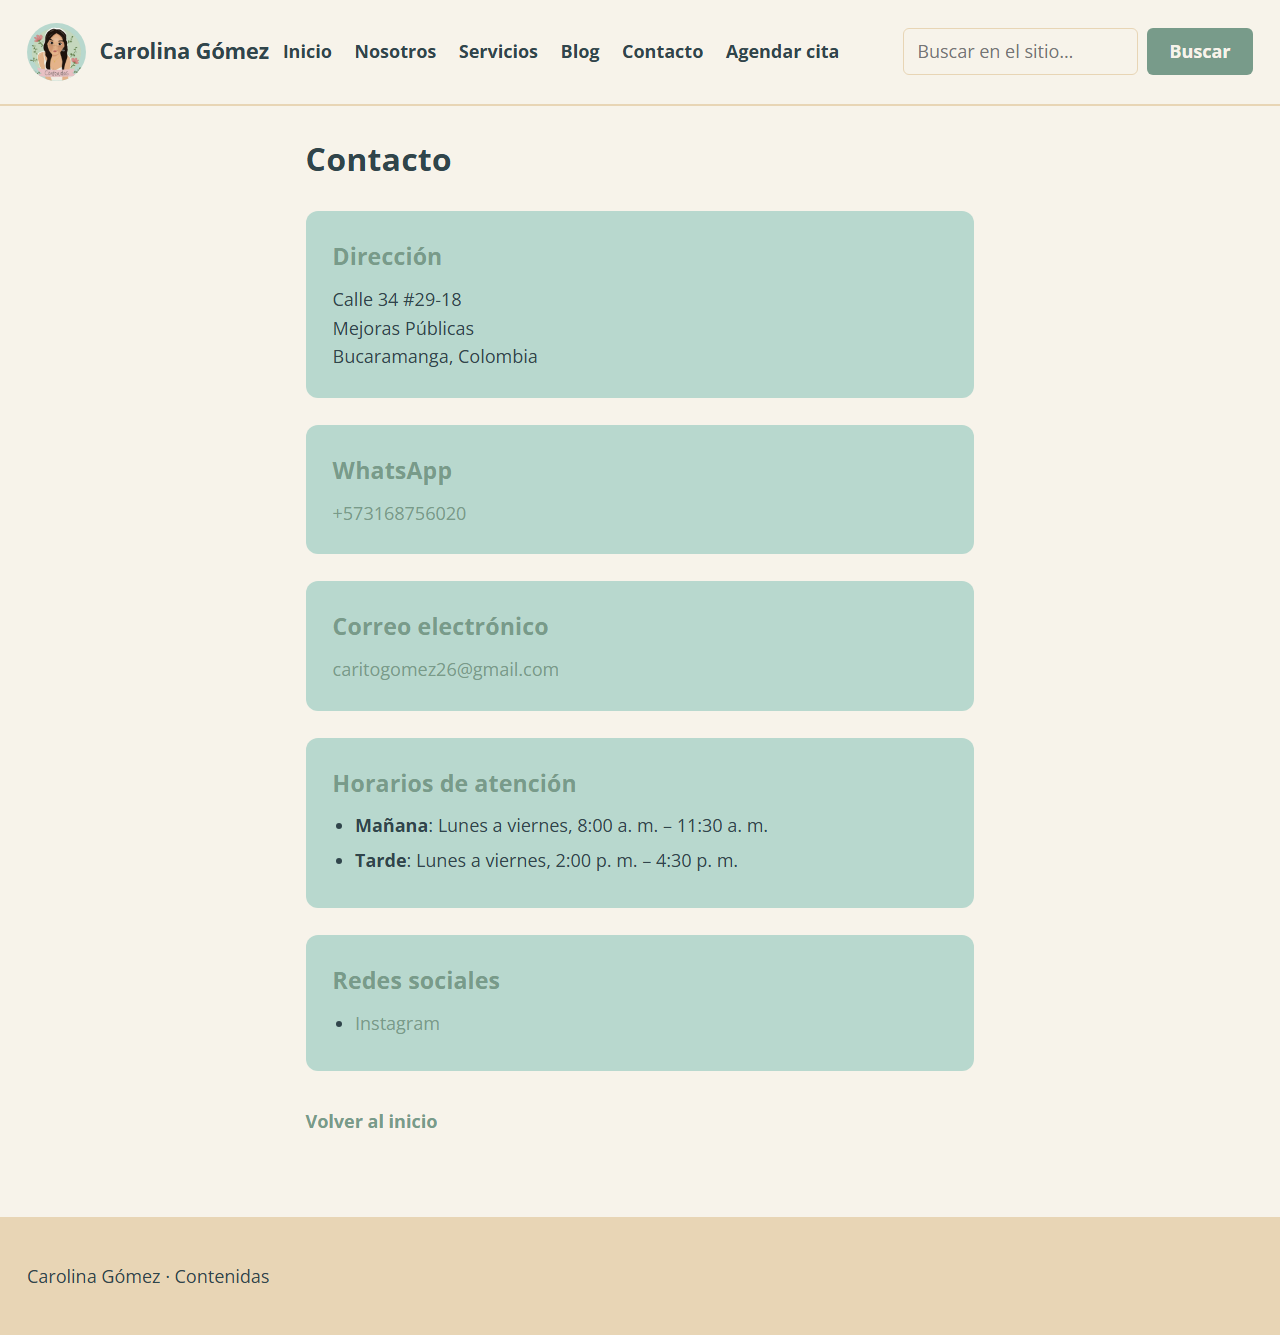
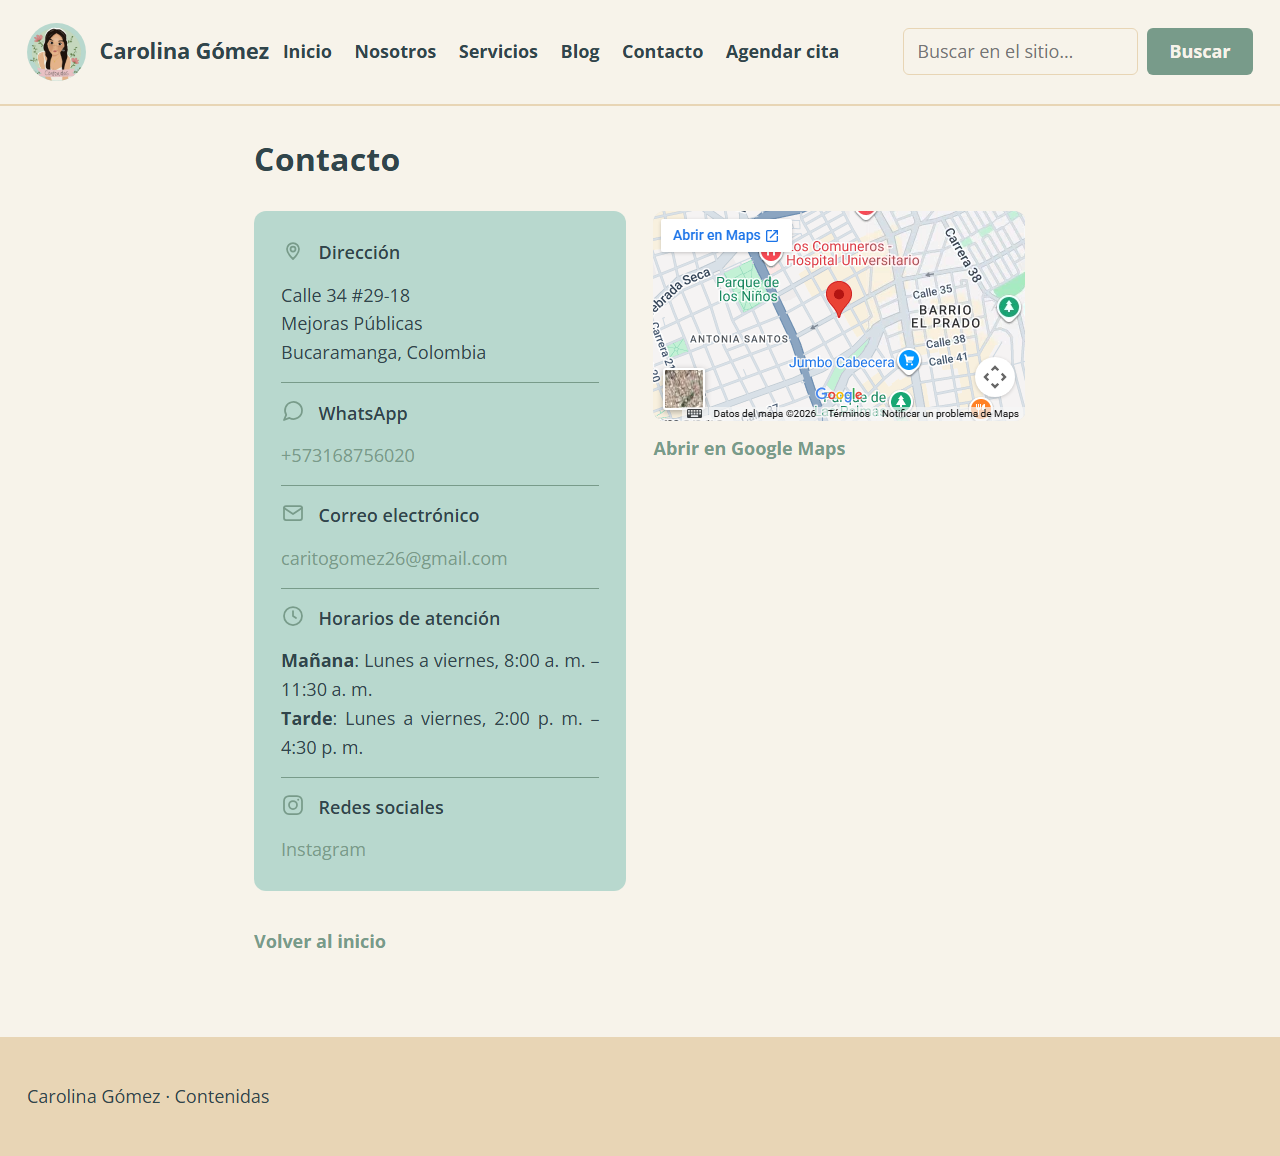
docs(hu-015): evidencia QA de la ampliacion, fix flex-wrap 375px y memoria

Changed region(s): [[0.0, 0.0, 1.0, 0.8408], [0.0, 0.872, 1.0, 0.9654]]

diff --git a/static/css/main.css b/static/css/main.css
@@ -404,6 +404,7 @@ a:focus {
 
 .contact__row {
     display: flex;
+    flex-wrap: wrap;
     align-items: flex-start;
     gap: 0.75rem;
     margin: 0;
@@ -432,7 +433,8 @@ a:focus {
 }
 
 .contact__value {
-    flex: 1 1 auto;
+    flex: 1 1 12rem;
+    min-width: 0;
     text-align: justify;
     hyphens: none;
 }

diff --git a/docs/evidencias/hu-015/qa-hu-015.md b/docs/evidencias/hu-015/qa-hu-015.md
@@ -1,10 +1,12 @@
 # Evidencia QA — HU-015 (Spec 015 · Consultar información de contacto)
 
 **HU:** HU-015
-**Rama:** `feature/hu-015`
-**Commits:** `04640c7` (spec enmendada + plan + task), `942cf77` (contenido + espejo),
+**Rama (v1):** `feature/hu-015` — **Rama (ampliación 2026-10-12):** `feature/hu-015-diseno`
+**Commits (v1):** `04640c7` (spec enmendada + plan + task), `942cf77` (contenido + espejo),
 `7c14cfc` (servicio), `1f60bda` (web + plantilla + placeholders), `6eb32eb` (CSS),
 `9670a9c` (tests), `1dd0498` (esta evidencia + MEMORY)
+**Commits (ampliación):** `2bd6f53` (spec RF-7 + plan + task), `923f9b6` (`MAP_*` +
+`ContactMap` + TC-017/018), `33bee8f` (cajón + iconos + mapa + TC-009/012/015/019)
 **Fecha:** 2026-10-12
 
 ## Resumen
@@ -87,7 +89,7 @@ medidas con `Runtime.evaluate` antes de capturar; emulación fijada por sesión.
 - `POST /contacto` → 405; `GET /contacto/noexiste` → 404.
 - Servidor de revisión en marcha: **http://127.0.0.1:5000/contacto**
 
-## Veredicto
+## Veredicto (v1)
 
 **PASS** — 16/16 TC en verde, suite 179/179, regresión intacta y evidencia visual verificada.
 
@@ -96,3 +98,84 @@ medidas con `Runtime.evaluate` antes de capturar; emulación fijada por sesión.
 - [x] Evidencia visual PASS (1280 y 375, sin desbordes).
 - [x] Demo manual realizada.
 - [x] **Aceptación de la HU por la usuaria**: 2026-10-12.
+
+---
+
+## Ampliación 2026-10-12 — cajón con iconos + mapa (RF-7)
+
+**Rama:** `feature/hu-015-diseno` (spec 015 enmendada con RF-7 + literales `MAP_*` + caso
+límite «Mapa no disponible»; plan/task de ampliación aprobados por la usuaria).
+
+| Verificación | Comando | Resultado |
+|---|---|---|
+| Suite automatizada | `python -m pytest -q` | **182 PASS / 0 FAIL** |
+| Tests de la HU | `python -m pytest tests/test_contact_content.py tests/test_contact_service.py tests/test_contact_routes.py tests/test_hu_015.py -v` | **19 PASS / 0 FAIL** |
+| Regresión resto de HUs | mismos 163 tests previos dentro de la suite | **163 PASS** |
+| Servidor de desarrollo | `GET http://127.0.0.1:5000/contacto` | **200** con cajón de 5 filas + mapa |
+| Evidencia visual | `docs/evidencias/hu-015/*.png` (regeneradas) | **2 archivos, PASS** |
+
+### Casos de prueba de la ampliación
+
+| Caso | Archivo | Resultado |
+|---|---|---|
+| TC-015-017 literales `MAP_*` = espejo; embed `output=embed` y link con la consulta URL-encoded; «Abrir en Google Maps» y título | `test_contact_content.py` | PASS |
+| TC-015-018 RF-7 servicio: `map` completo sin fallback; CL-5 `MAP_QUERY` vacío → default y `fallback_active=True`; ambos vacíos → `map is None`; CL-1 sin dirección → `map is None` | `test_contact_service.py` | PASS |
+| TC-015-019 iframe `www.google.com/maps` con `title` + `loading="lazy"` y enlace de respaldo `target="_blank" rel="noopener"`; dirección visible fuera del iframe | `test_contact_routes.py` | PASS |
+| TC-015-009 (adaptado) h1 + `.contact__panel` con ≥5 `<li class="contact__row">` | `test_contact_routes.py` | PASS |
+| TC-015-012 (adaptado) 5 filas con `<svg aria-hidden="true">`, etiqueta y valor; sin mezcla de datos entre canales | `test_contact_routes.py` | PASS |
+| TC-015-015 (adaptado) RNF: viewport, `@media`, `.contact` 65ch, `.contact__value` justify/none, grid 2 columnas `@media (min-width: 900px)`, paleta ⊆ 6 hex | `test_hu_015.py` | PASS |
+
+TC-015-001…008/010/011/013/014/016 de v1: **sin cambios y en verde** (marcado de
+enlaces idéntico a v1, D5). Ninguna aserción relajada.
+
+### Cobertura RF-7 y casos límite
+
+| Elemento | Verificación | Resultado |
+|---|---|---|
+| RF-7 mapa con dirección | iframe embed de Google Maps + enlace de respaldo en `/contacto` (TC-018/019 + CDP) | PASS |
+| CL-1 dirección no aplicable | `map is None` con dirección y default vacíos (TC-018) | PASS |
+| CL-5 consulta de mapa vacía | default aplicado (`fallback_active=True`); ambos vacíos → bloque omitido (TC-018) | PASS |
+| «Mapa no disponible» (spec) | dirección escrita permanece visible fuera del iframe (TC-019 + CDP) | PASS |
+| RNF-1 legible escritorio/móvil | grid 2 columnas ≥900 px, apilado <900 px, sin desbordes (TC-015 + CDP) | PASS |
+
+### Evidencia visual (capturas regeneradas)
+
+| Archivo | Dimensiones | Contenido comprobado | Resultado |
+|---|---|---|---|
+| `escritorio-1280.png` | 1280×1156 | h1 «Contacto»; cajón salvia con 5 filas (icono SVG + etiqueta + valor): Dirección, WhatsApp, Correo electrónico, Horarios de atención, Redes sociales; mapa de Google a la derecha (grid 2 columnas); enlace «Abrir en Google Maps»; «Volver al inicio»; sin formularios | PASS |
+| `movil-375.png` | 375×1574 | filas apiladas (valor en línea propia cuando no cabe), mapa debajo, **sin desbordes** (`scrollWidth` = `clientWidth` = 375) | PASS |
+
+**Verificación CDP en vivo** (`Emulation.setDeviceMetricsOverride` +
+`Runtime.evaluate`, puerto 9444, Chrome headless):
+
+| Viewport | Resultado |
+|---|---|
+| 1280 | `contactDisplay=grid`; 5 filas con 5 iconos `aria-hidden`; labels Dirección/WhatsApp/Correo electrónico/Horarios de atención/Redes sociales; iframe `google.com/maps…output=embed` con title y `loading=lazy`; enlace «Abrir en Google Maps» `rel=noopener`; `wa.me/573168756020`; `mailto:caritogomez26@gmail.com`; Instagram `rel=noopener`; `justify/none` en `.contact__value`; form/input en `<main>` = 0; `scrollWidth` = `clientWidth` = 1265 (sin desborde) |
+| 375 | `contactDisplay=block` (sin grid); mismo contenido; `scrollWidth` = `clientWidth` = 375 (sin desborde), `scrollHeight` = 1574; captura completa |
+
+**Corrección durante la ampliación:** la primera pasada a 375 px desbordaba
+(`scrollWidth` 512) porque `.contact__label` (10,5 rem) empujaba el valor con tokens
+largos (`caritogomez26@gmail.com`); se añadió `flex-wrap: wrap` a `.contact__row` y
+`flex: 1 1 12rem; min-width: 0` a `.contact__value`, y la verificación CDP quedó en
+`scrollWidth` = 375.
+
+**Método**: DevTools Protocol (no `--window-size`, regla de AGENTS.md); alturas
+medidas con `Runtime.evaluate` antes de capturar; emulación fijada por sesión.
+
+### Demo manual (ampliación)
+
+- `GET /contacto` → 200; cajón con iconos + mapa de Google y «Abrir en Google Maps».
+- Clic en WhatsApp/correo/Instagram → mismos comportamientos de v1.
+- Mapa visible a 1280 px (columna derecha) y debajo del cajón a 375 px.
+- Servidor de revisión en marcha: **http://127.0.0.1:5000/contacto**
+
+### Veredicto de la ampliación
+
+**PASS** — 19/19 TC de HU-015 en verde, suite **182/182**, regresión intacta y
+evidencia visual regenerada sin desbordes.
+
+- [x] Tests automatizados PASS (182/182).
+- [x] Regresión revisada (163 previos intactos).
+- [x] Evidencia visual PASS (1280 y 375, sin desbordes; capturas regeneradas).
+- [x] Demo manual realizada.
+- [ ] **Aceptación de la ampliación por la usuaria** (pendiente, T17).

diff --git a/MEMORY.md b/MEMORY.md
@@ -153,12 +153,28 @@ aporte.
   `content/contact_content.py` + `services/contact_service.py` (resolución
   vivo→default→omisión, `fallback_active`; horarios con
   `DEFAULT_OFFICE_HOURS`), blueprint `contact`, `PLACEHOLDER_SECTIONS` =
-  `["/articulos"]`, CSS `.contact-*`. 16 tests nuevos (TC-015-001…016); suite
-  **179 PASS / 0 FAIL**. Veredicto **PASS** en
-  `docs/evidencias/hu-015/qa-hu-015.md` (capturas CDP 1280×1335 y 375×1552, sin
-  desbordes). Commits: `04640c7` docs, `942cf77` contenido+espejo, `7c14cfc`
-  servicio, `1f60bda` web+plantilla, `6eb32eb` CSS, `9670a9c` tests,
-  evidencia+MEMORY en el commit de cierre.
+   `["/articulos"]`, CSS `.contact-*`. 16 tests nuevos (TC-015-001…016); suite
+   **179 PASS / 0 FAIL**. Veredicto **PASS** en
+   `docs/evidencias/hu-015/qa-hu-015.md` (capturas CDP 1280×1335 y 375×1552, sin
+   desbordes). Commits: `04640c7` docs, `942cf77` contenido+espejo, `7c14cfc`
+   servicio, `1f60bda` web+plantilla, `6eb32eb` CSS, `9670a9c` tests,
+   evidencia+MEMORY en el commit de cierre.
+- **HU-015 ampliación (cajón + iconos + mapa) PASS, pendiente de aceptación**
+  (2026-10-12, rama `feature/hu-015-diseno`): spec 015 enmendada con **RF-7**
+  (mapa condicionado a dirección) + literales `MAP_QUERY`/`MAP_EMBED_URL`/
+  `MAP_LINK_URL`/`MAP_LINK_LABEL`/`MAP_FRAME_TITLE` (iframe de Google Maps sin
+  API key + enlace «Abrir en Google Maps»). Plantilla refactorizada: un **cajón
+  `.contact__panel`** con 5 `<li class="contact__row">` (SVG inline `aria-hidden`
+  + etiqueta + valor; marcado de enlaces idéntico a v1) y bloque
+  `.contact__map`; CSS con **grid 2 columnas ≥900 px** (cajón ‖ mapa) y
+  apilado <900 px. Servicio con `ContactMap` + `ContactView.map` (vivo→
+  default→omisión, CL-1/CL-5). 3 TC adaptados (009/012/015) + 3 nuevos
+  (017/018/019); suite **182 PASS / 0 FAIL**; capturas regeneradas
+  (1280×1156 / 375×1574). **Lección**: a 375 px `.contact__label` (10,5 rem)
+  desbordaba el valor con tokens largos (email) → `flex-wrap: wrap` en
+  `.contact__row` + `min-width: 0`. Commits: `2bd6f53` docs, `923f9b6`
+  contenido+servicio, `33bee8f` plantilla+CSS+tests, evidencia+fix en el
+  cierre. **Solo falta T17 (aceptación de la usuaria)**.
 
 ## Decisiones (y por qué)
 - **Despliegue en Render (2026-10-12)**: `render.yaml` (Blueprint, Python 3.12,
@@ -308,7 +324,8 @@ aporte.
 - **HU-008 + enmienda de estado CERRADAS** (2026-10-11); ambas mergeadas a
   `main` (fast-forward). Sin pendientes abiertos.
 - **HU-015 ACEPTADA Y CERRADA** (2026-10-12, aceptación en `qa-hu-015.md`);
-  mergeada a `main`. Sin pendientes abiertos.
-- Servidor de revisión: http://127.0.0.1:5000/citas (sin webhook configurado).
+  mergeada a `main`. **Ampliación** (cajón+iconos+mapa RF-7) en
+  `feature/hu-015-diseno`: PASS, **pendiente T17 (aceptación)**.
+- Servidor de revisión: http://127.0.0.1:5000/contacto (ampliación HU-015).
 - Posible HU futura (si la usuaria lo pide): transición de estados de la cita
   (p. ej. cancelación — Spec 010) — requiere spec.

diff --git a/specs/015_consultar-contacto/task.md b/specs/015_consultar-contacto/task.md
@@ -108,7 +108,7 @@
   Hecho cuando: `python -m pytest -q` → **0 FAIL** con los **179** actuales (v1 con 3
   adaptados) más los **3** nuevos (**182 en total**).
 
-- [ ] **T15 — Evidencia QA y visual de la ampliación (plan §6.3, D21)** `[RF-6][RF-7][RNF-1][finalización]`
+- [x] **T15 — Evidencia QA y visual de la ampliación (plan §6.3, D21)** `[RF-6][RF-7][RNF-1][finalización]`
   Servidor, recorrido manual (cajón con iconos, enlaces `wa.me`/`mailto:`/Instagram,
   mapa embebido visible y «Abrir en Google Maps») y capturas CDP regeneradas →
   `docs/evidencias/hu-015/escritorio-1280.png` (cajón ‖ mapa) y
